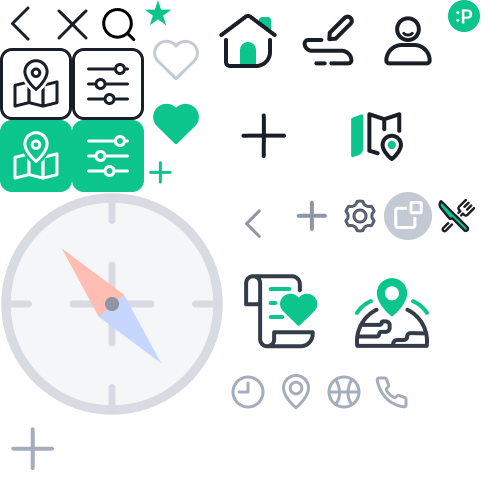
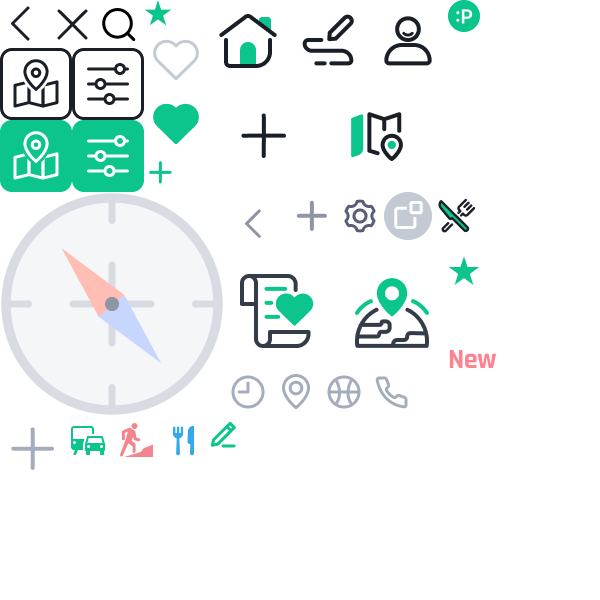
update: 스프라이드 이미지 업데이트 및 사이즈 변경

diff --git a/src/styles/icons.css b/src/styles/icons.css
@@ -6,7 +6,7 @@
   background-repeat: no-repeat;
   text-indent: -9999px;
   background-image: url('/img_pravel.png');
-  background-size: 250px 250px;
+  background-size: 300px 300px;
   vertical-align: middle;
 }
 .ico_prev24 {
